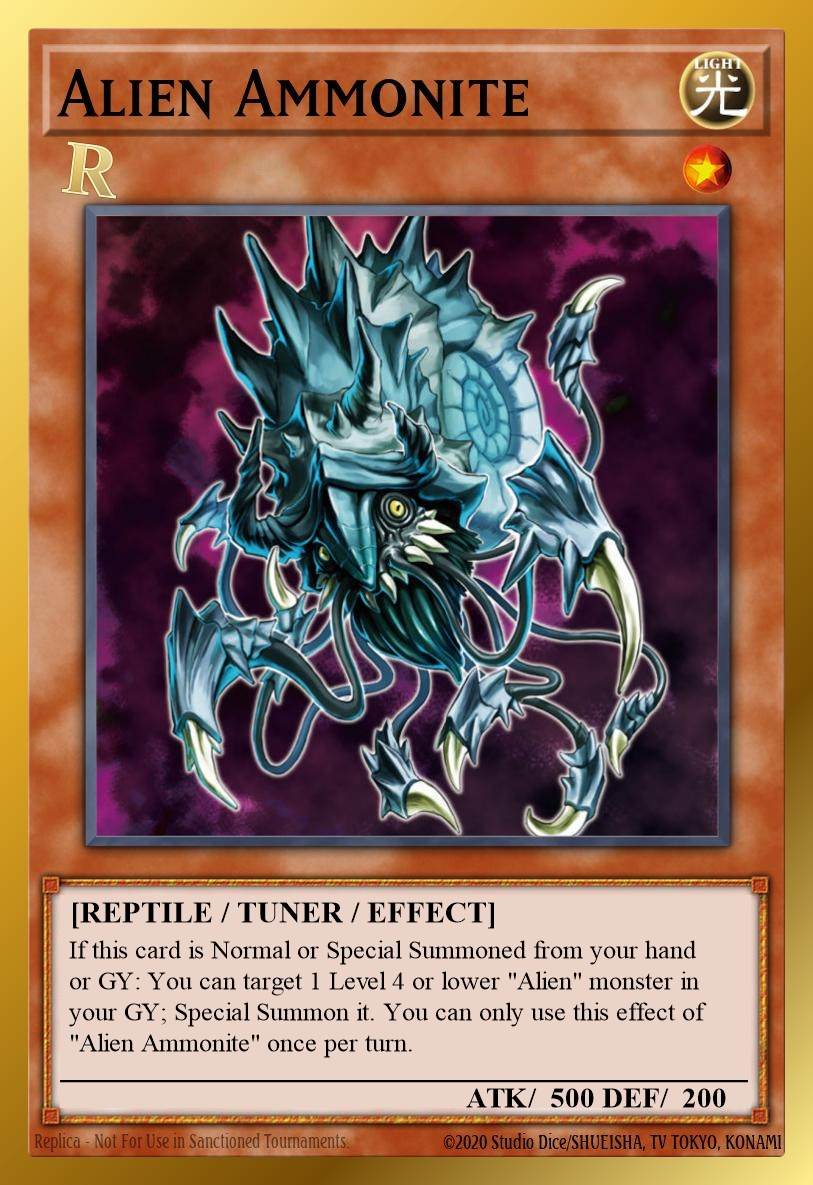
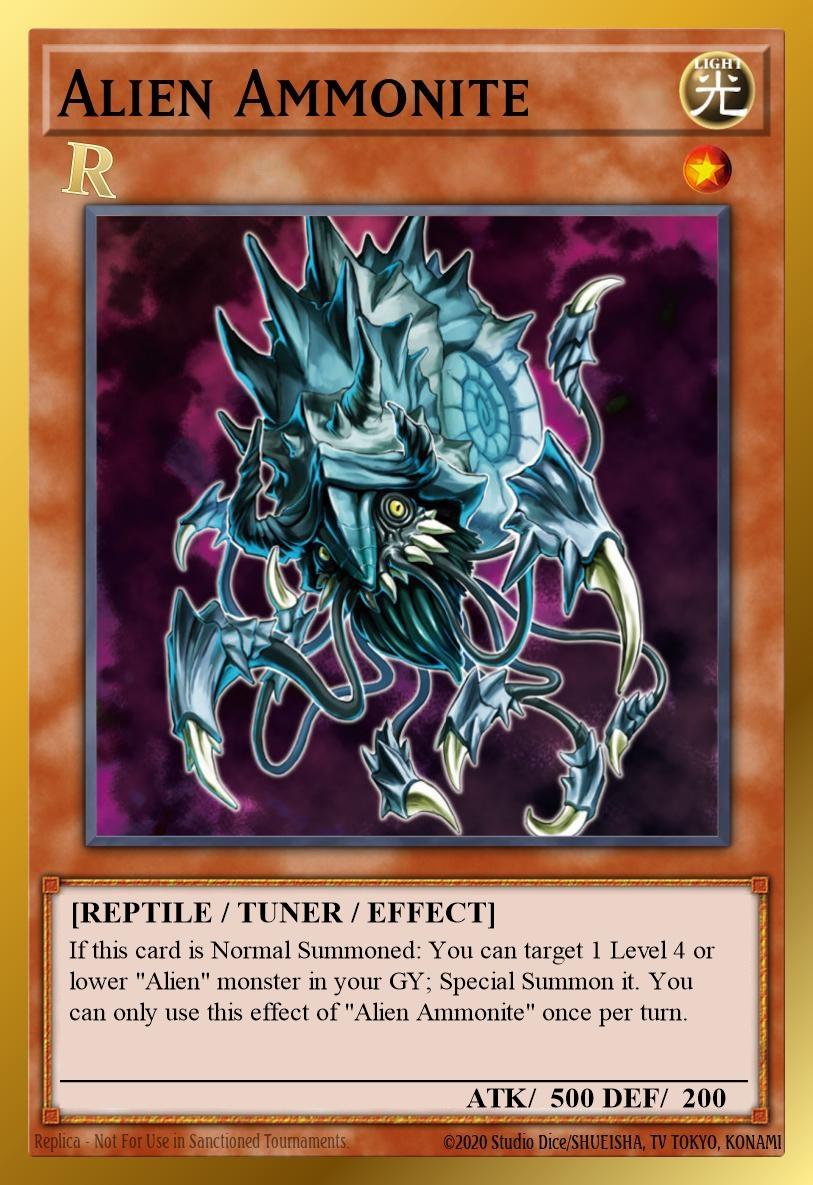
undo most changes to alien ammonite and code a ancient ruins

Changed region(s): [[0.0923, 0.7806, 0.8918, 0.9055]]

diff --git a/Redux/scripts/build-cards-cdb.js b/Redux/scripts/build-cards-cdb.js
@@ -152,7 +152,7 @@ module.exports = function buildCardsDb({ reduxRoot }) {
   const alienAmmoniteTextResult = db
     .prepare("UPDATE texts SET desc = ?, str1 = ? WHERE id = ?")
     .run(
-      'If this card is Normal or Special Summoned from your hand or GY: You can target 1 Level 4 or lower "Alien" monster in your GY; Special Summon it. You can only use this effect of "Alien Ammonite" once per turn.',
+      'If this card is Normal Summoned: You can target 1 Level 4 or lower "Alien" monster in your GY; Special Summon it. You can only use this effect of "Alien Ammonite" once per turn.',
       'Special Summon 1 Level 4 or lower "Alien" monster from your GY',
       652362,
     );

diff --git a/Redux/scripts/build-lflist.js b/Redux/scripts/build-lflist.js
@@ -115,7 +115,6 @@ const limitChanges = new Map([
   ["90846359", 1], // Rivalry of Warlords
   ["82732705", 1], // Skill Drain
   ["53567095", 2], // Icarus Attack
-  ["99342953", 2], // Code A Ancient Ruins
   ["24082387", 1], // Crop Circles
 ]);
 

diff --git a/README.md b/README.md
@@ -74,7 +74,7 @@ Redux Limits: `0` = forbidden; `1` = limited; `2` = semi-limited; `3` = unlimite
 | Cardname | Changes |
 | --- | --- |
 | `3` [Alien "A" Cell Scatter Burst](https://yugioh.fandom.com/wiki/%22A%22_Cell_Scatter_Burst) | ⬆ Counts as Alien; Tribute Alien; A-Counters on non-Alien cards; can draw; shared Alien GY effect summons from hand |
-| `3` [Alien Ammonite](https://yugioh.fandom.com/wiki/Alien_Ammonite) | ⬆ Summon from hand/GY trigger; once per turn; summoned monster stays |
+| `3` [Alien Ammonite](https://yugioh.fandom.com/wiki/Alien_Ammonite) | ⬇ Normal Summon only; once per turn; summoned monster stays |
 | `3` [Code A Ancient Ruins](https://yugioh.fandom.com/wiki/Code_A_Ancient_Ruins) | 🔄 Places A-Counters on non-Alien cards; hard once per turn; summons Reptile from hand/GY |
 | `3` [Alien Cosmic Horror Gangi'el](https://yugioh.fandom.com/wiki/Cosmic_Horror_Gangi%27el) | 🔄 Counts as Alien; hand summon with exactly 3 banished Aliens; hard once per turn bounce; shares high-level Alien control limit |
 | `3` [Cosmic Fortress Gol'gar](https://yugioh.fandom.com/wiki/Cosmic_Fortress_Gol%27gar) | 🔄 1 Reptile + 1+ non-Tuner monsters |
@@ -294,7 +294,7 @@ Redux Limits: `0` = forbidden; `1` = limited; `2` = semi-limited; `3` = unlimite
 | [Megamorph](https://yugioh.fandom.com/wiki/Megamorph) | 2 | `2` | 3 |  |
 | [Formula Synchron](https://yugioh.fandom.com/wiki/Formula_Synchron) | 3 | `2` | 1 |  |
 | [Pot of Avarice](https://yugioh.fandom.com/wiki/Pot_of_Avarice) | 3 | `2` | 1 |  |
-| [Code A Ancient Ruins](https://yugioh.fandom.com/wiki/Code_A_Ancient_Ruins) | 3 | `2` | 3 | 🔄 |
+| [Code A Ancient Ruins](https://yugioh.fandom.com/wiki/Code_A_Ancient_Ruins) | 3 | `3` | 3 | 🔄 |
 | [Dupe Frog](https://yugioh.fandom.com/wiki/Dupe_Frog) | 3 | `3` | 3 | ⬇ |
 | [Alien Crop Circles](https://yugioh.fandom.com/wiki/Crop_Circles) | 3 | `1` | 3 | 🔄 |
 | [Dimensional Fissure](https://yugioh.fandom.com/wiki/Dimensional_Fissure) | 3 | `1` | 3 |  |
